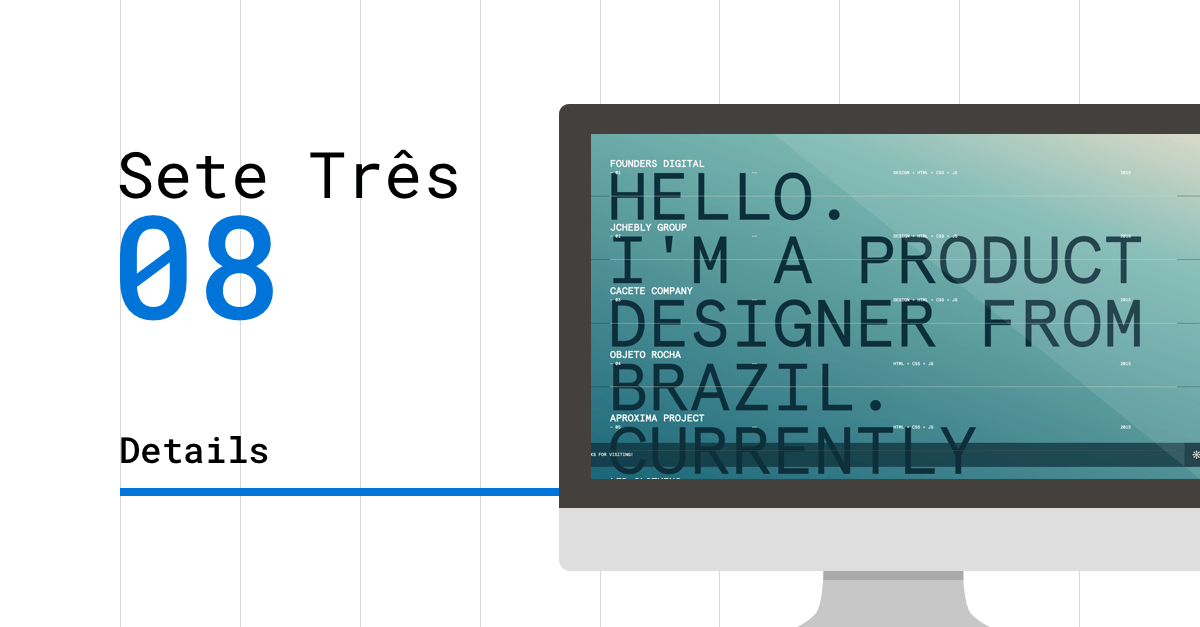
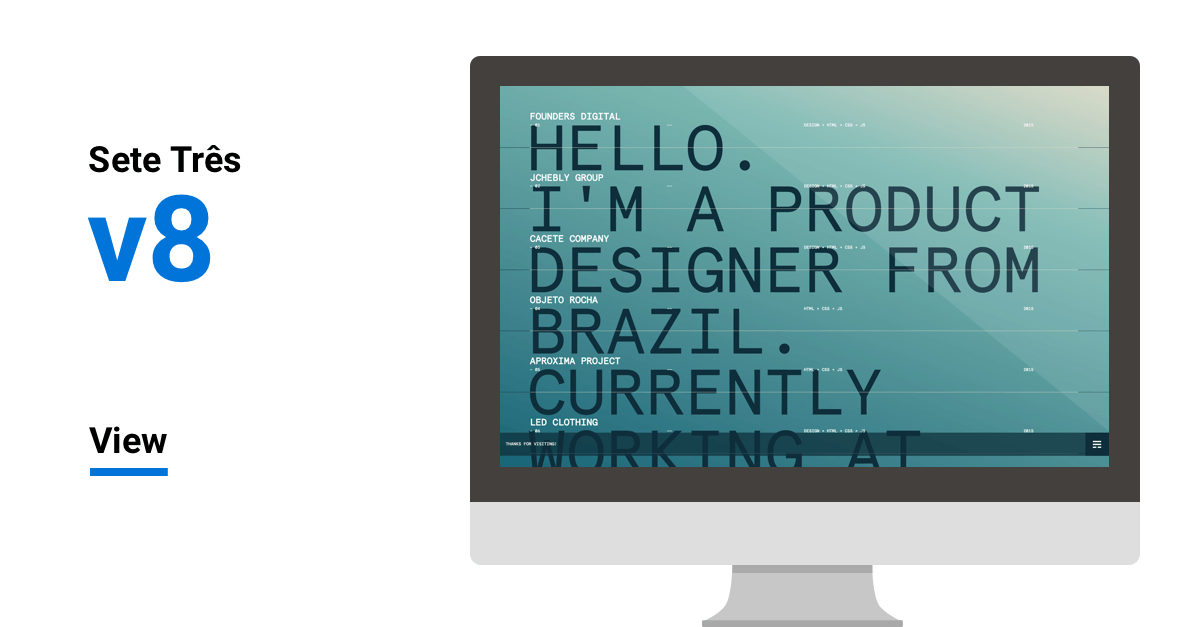
WIP

diff --git a/README.md b/README.md
@@ -1,8 +1,7 @@
-v8 [![Github License](https://img.shields.io/github/license/setetres/v8.svg)](https://github.com/setetres/v8/blob/master/LICENSE)
-==
-
-| [![v8](https://setetres.s3.amazonaws.com/setetres.st/img/share-v8.png?v=1&raw=true)](http://setetres.st) |
+| [![v8](https://setetres.s3.amazonaws.com/setetres.st/img/share-v8.png?v=2&raw=true)](http://setetres.st) |
 | -------------------------------------------------------------------------------------------------------- |
+
+[![Github License](https://img.shields.io/github/license/setetres/v8.svg)](https://github.com/setetres/v8/blob/master/LICENSE)
 
 License
 -------
